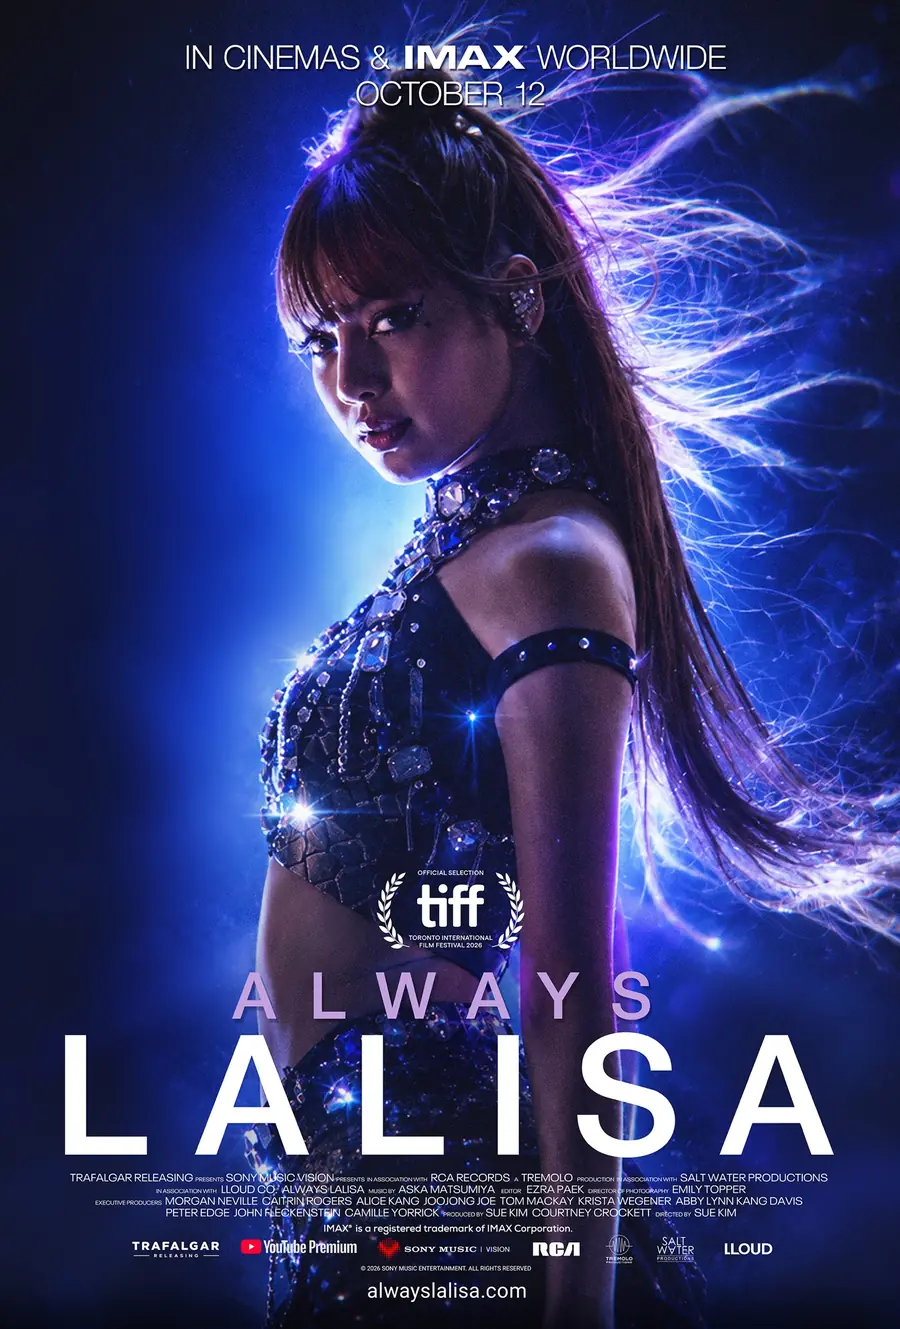
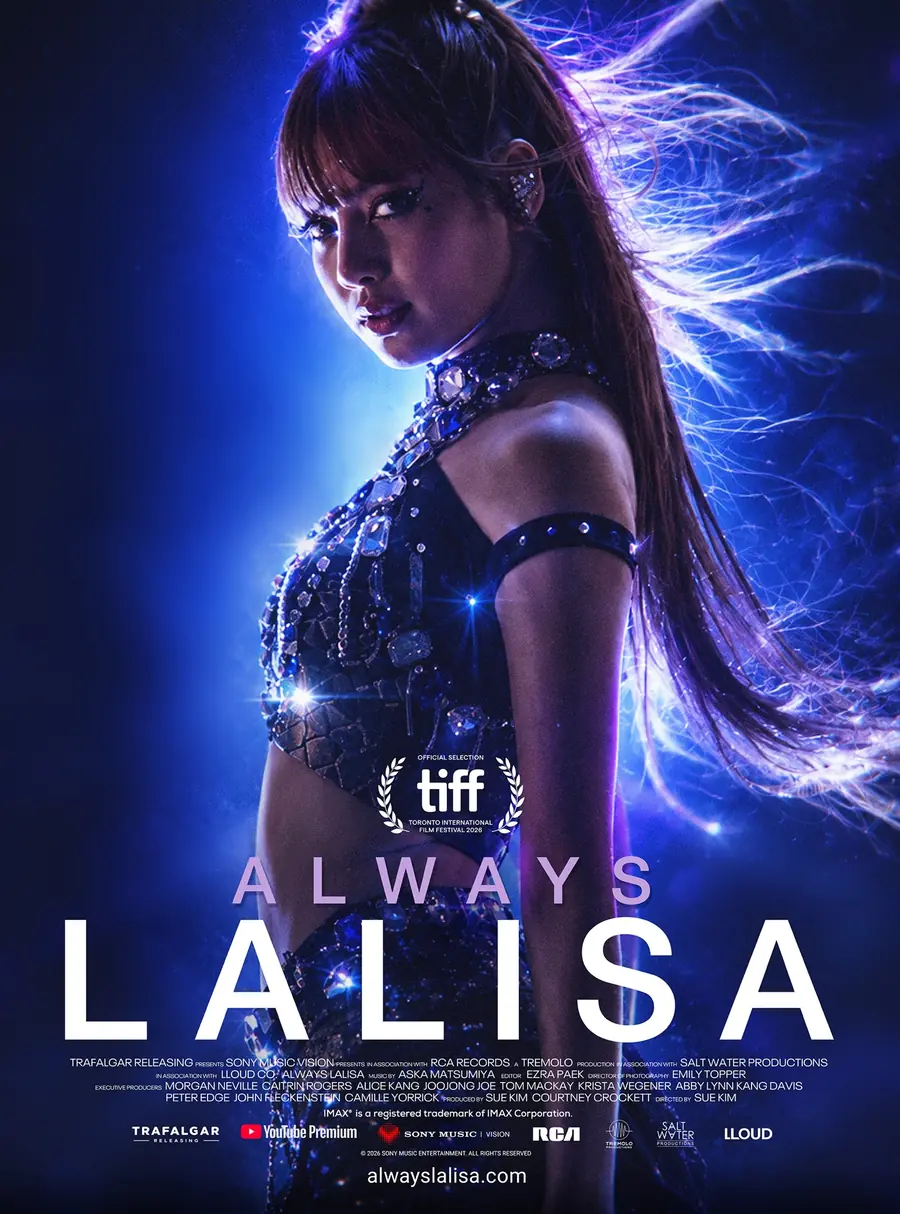
Leave With Me: crop the film's "OCTOBER 12" off the poster
The poster prints "IN CINEMAS & IMAX WORLDWIDE / OCTOBER 12" across its
top, which landed a couple of inches above "Out Wed, Nov 18, 2026" on the
card. Last commit answered that with a caption explaining which date was
which; removing the line is better than explaining it, because the best
version of that confusion is the one nobody has to resolve.

Cropped, not retouched. 180px off the top of the 1400x2068 original —
cut above her hair, so the composition keeps its headroom and nothing of
her is lost. Painting the line out was tried first: a 49x49 median inside
a threshold mask erases the type cleanly against the plain sky, then
smudges into a visible blocky patch where "OCTOBER 12" crosses the top of
her hair, which is worse at share-card size than the caption was.

The caption element and the note's "the October 12 on the poster is the
film's cinema date" sentence go with it. The note still says the art is
the film's poster standing in until a sleeve exists — the point was never
to hide where the picture came from, only to stop it carrying a date that
is not the song's.

Preview image regenerated from the cropped file.

The test pins the crop by the file's PROPORTIONS, which is the only thing
available that can tell a cropped poster from an uncropped one: the
original is 1.477 tall per wide, the shipped file 1.349, and the check
bounds both ends so a crop that kept going would fail too. It also now
pins the img width/height against the real header (parsed from the WebP
[…]

diff --git a/index.html b/index.html
@@ -1852,13 +1852,19 @@
      THE ART IS THE FILM'S POSTER, and that is right here because the song is
      the one she did for ALWAYS LALISA — it is the documentary's own key art
      standing in for a single that has no sleeve yet, not a picture borrowed
-     off an unrelated release. Two things follow from it being the FILM's
-     poster rather than the song's cover, and both are handled rather than
-     hoped about: it is labelled as the film's, and the OCTOBER 12 printed
-     across the top of it is the cinema date, which the card says in words so
-     nobody reads it as the song's. Swap in the real sleeve when one lands.
-     Shown whole, never cropped: it is a poster, and a poster cropped to a
-     banner loses the thing it was composed as. */
+     off an unrelated release. Swap in the real sleeve when one lands.
+
+     THE FILE IS CROPPED, 180px off the top of the 1400x2068 original. The
+     poster prints "IN CINEMAS & IMAX WORLDWIDE / OCTOBER 12" up there, which
+     landed a couple of inches above "Out Nov 18" on the card — two dates,
+     nothing saying which belonged to what. A caption explaining the
+     difference was the first attempt and it is weaker than not raising the
+     question. Cut above her hair, so the composition keeps its headroom and
+     nothing of her is lost; painting the line out instead was tried and
+     smudged where it crossed her hair.
+
+     Below the crop it is shown WHOLE, never cropped again: it is a poster,
+     and a poster cropped to a banner loses the thing it was composed as. */
   .cd-card-lwm { position: relative; overflow: hidden; background: #06060f; }
   .cd-card-lwm::before { content: ""; position: absolute; inset: 0; pointer-events: none;
     background: radial-gradient(118% 68% at 24% 0%, rgba(92,122,255,0.30), transparent 62%),
@@ -1869,8 +1875,6 @@
   .lwm-poster { display: block; width: auto; max-width: 66%; max-height: 360px;
     margin: 0 auto 1.15rem; border-radius: 7px; border: 1px solid rgba(255,255,255,0.12);
     box-shadow: 0 14px 40px rgba(0,0,0,0.55); }
-  .lwm-poster-cap { font-family: var(--mono); font-size: 0.48rem; letter-spacing: 0.14em;
-    text-transform: uppercase; color: rgba(214,222,255,0.5); margin: -0.75rem 0 1.15rem; }
   .lwm-title { font-family: var(--display); font-size: clamp(1.7rem, 13cqw, 2.9rem);
     line-height: 0.95; letter-spacing: 0.01em; color: #fff; text-wrap: balance; }
   .lwm-by { font-family: var(--mono); font-size: 0.54rem; letter-spacing: 0.3em;
@@ -4168,10 +4172,10 @@
 
                Her song for the ALWAYS LALISA documentary, which is why the
                film's poster is the art: it stands in for a sleeve that does
-               not exist yet. The OCTOBER 12 printed across the top of it is
-               the film's cinema date, and the caption under the poster says
-               so — otherwise it sits two inches above "Out Nov 18" with
-               nothing telling a reader which date belongs to what.
+               not exist yet. The file is cropped above her hair to drop the
+               poster's own "IN CINEMAS … OCTOBER 12" line — see the note by
+               .lwm-poster in the stylesheet. Nothing on this card should
+               carry a date but the song's.
 
                TWO THINGS THIS CARD HAS NOT GOT. Neither is a rule, and both
                go in the moment they exist:
@@ -4201,10 +4205,9 @@
                data-live="OUT NOW ✨" data-prerelease-name="leave with me">
             <div class="lwm-hero">
               <img class="lwm-poster" src="/leavewithme/always-lalisa-poster.webp"
-                   width="900" height="1329" loading="lazy"
+                   width="900" height="1214" loading="lazy"
                    alt="ALWAYS LALISA — the documentary's poster. LISA in a crystal-studded stage outfit, lit blue, her hair streaming behind her; an official selection laurel for the Toronto International Film Festival 2026 sits above the title."
                    onerror="this.remove()">
-              <div class="lwm-poster-cap">The film's poster · in cinemas Oct 12</div>
               <div class="lwm-title">Leave With Me</div>
               <div class="lwm-by">LISA · New Single</div>
             </div>
@@ -4214,9 +4217,8 @@
               <button class="cd-btn lwm-btn" onclick="openLeaveWithMeCard()">📸 Share</button>
             </div>
             <div class="lwm-note">
-              LISA's song for <b>ALWAYS LALISA</b>, the documentary. The
-              <b>October 12</b> on the poster is the film's cinema date — the
-              song is its own release, out <b>Nov 18</b>.
+              LISA's song for <b>ALWAYS LALISA</b>, the documentary — the art
+              is the film's poster, standing in until a sleeve exists.
               <br><br>
               No release time has been announced, so this counts to
               <b>midnight where you are</b> — it reaches zero when the date
